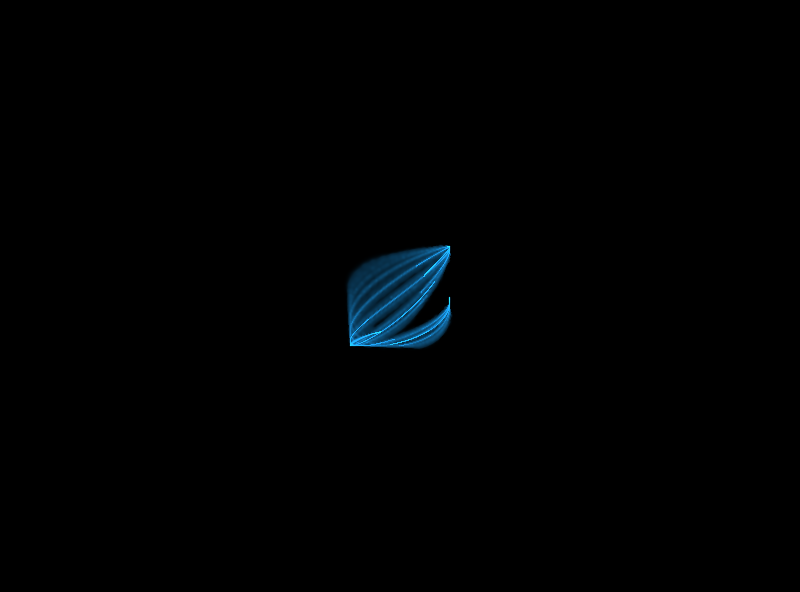
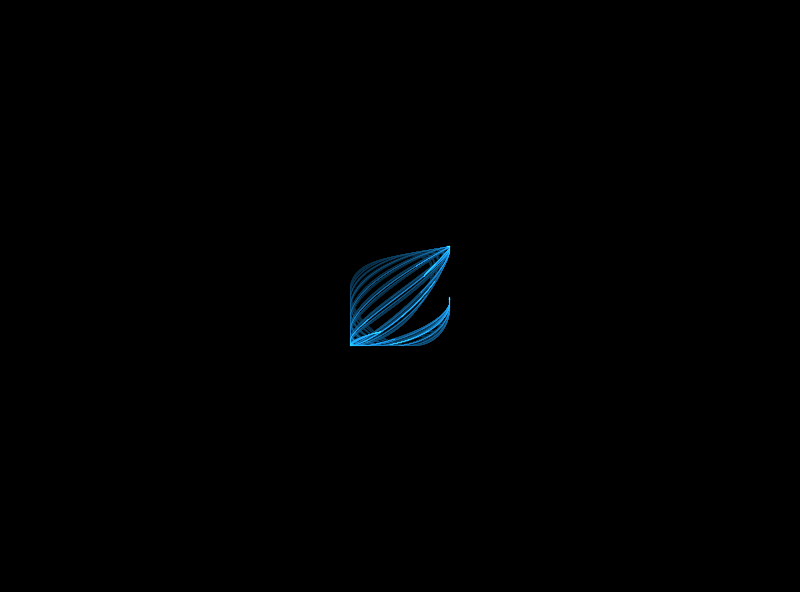
misc updates

Changed region(s): [[0.4062, 0.3953, 0.5625, 0.6081]]

diff --git a/flam-java/src/flam/FlamComponent.java b/flam-java/src/flam/FlamComponent.java
@@ -106,15 +106,21 @@ public class FlamComponent extends JComponent {
     }
 
     private void updateHistogram(double x, double y, double cc) {
-        x -= genome.center[0];
-        y -= genome.center[0];
+        double top = 1, bottom = -1, left = -1, right = 1;
 
-        if (x < -1 || x > 1 || y < -1 || y > 1) {
+        if (x < left || x > right || y < bottom || y > top) {
             return;
         }
 
-        float x1 = (float) ((x + 1) * WIDTH / 2);
-        float y1 = (float) ((y + 1) * HEIGHT / 2);
+        x -= genome.center[0];
+        y -= genome.center[0];
+
+        double height = top - bottom;
+        double width = right - left;
+
+
+        double x1 = (x - left) * WIDTH / width;
+        double y1 = (y - bottom) * HEIGHT / height;
 
         int offset = (int) x1 + HEIGHT * (int) y1;
 
